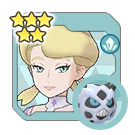
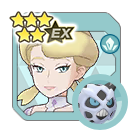
Add v2.25.0

Changed region(s): [[0.2963, 0.1185, 0.5926, 0.3556], [0.3556, 0.0889, 0.3852, 0.1185], [0.2963, 0.0889, 0.3259, 0.1185]]

diff --git a/js/syncpairs.js b/js/syncpairs.js
@@ -1795,6 +1795,34 @@ export const SYNCPAIRS = [
 		]
 	},
 	{
+		"dexNumber": "043",
+		"trainerName": "Iris",
+		"trainerAlt": "Fall 2022",
+		"pokemonNumber": "0804",
+		"pokemonName": "Naganadel",
+		"pokemonGender": "",
+		"pokemonForm": [],
+		"pokemonType": "Poison",
+		"pokemonWeak": "Psychic",
+		"syncPairRole": "Tech",
+		"syncPairRarity": "★★★★★☆",
+		"releaseDate": "2022/10/17",
+		"syncPairRegion": "5Unova",
+		"images": [
+			"Sync Pairs/0Y_SEASONALS/0Z_0C_FALL_2022_Iris.png",
+			"Sync Pairs/0Y_SEASONALS/0Z_0C_FALL_2022_Iris_EX.png"
+		],
+		"tags": [
+			"isWoman",
+			"Limited Sync Pair Scout",
+			"Multiple Units",
+			"Seasonal",
+			"Wish Zone",
+			"Gym Leader",
+			"Champion"
+		]
+	},
+	{
 		"dexNumber": "044",
 		"trainerName": "Roxie",
 		"trainerAlt": "",
@@ -2926,7 +2954,8 @@ export const SYNCPAIRS = [
 		"releaseDate": "2019/11/14",
 		"syncPairRegion": "3Hoenn",
 		"images": [
-			"Sync Pairs/0C_HOENN/0C_HOENN_0C-03_Glacia.png"
+			"Sync Pairs/0C_HOENN/0C_HOENN_0C-03_Glacia.png",
+			"Sync Pairs/0C_HOENN/0C_HOENN_0C-03_Glacia_EX.png"
 		],
 		"tags": [
 			"Sync Pair Scout",
@@ -3985,6 +4014,36 @@ export const SYNCPAIRS = [
 			"Sync Pair Scout",
 			"isMan",
 			"Rival"
+		]
+	},
+	{
+		"dexNumber": "092",
+		"trainerName": "Wally",
+		"trainerAlt": "Sygna Suit",
+		"pokemonNumber": "0282",
+		"pokemonName": "Gardevoir",
+		"pokemonGender": "♂",
+		"pokemonForm": ["Mega Evolution"],
+		"pokemonType": "Fairy",
+		"pokemonWeak": "Ghost",
+		"syncPairRole": "Tech",
+		"syncPairRarity": "★★★★★☆",
+		"releaseDate": "2022/09/28",
+		"syncPairRegion": "3Hoenn",
+		"images": [
+			"Sync Pairs/0C_HOENN/0C_HOENN_0A-03_ssWally.png",
+			"Sync Pairs/0C_HOENN/0C_HOENN_0A-03_ssWally_EX.png"
+		],
+		"tags": [
+			"Buddy Move",
+			"isMan",
+			"Limited Sync Pair Scout",
+			"Mega Evolution",
+			"Multiple Units",
+			"Poké Fair",
+			"Wish Zone",
+			"Rival",
+			"Shiny"
 		]
 	},
 	{
@@ -5637,6 +5696,33 @@ export const SYNCPAIRS = [
 		]
 	},
 	{
+		"dexNumber": "123",
+		"trainerName": "Raihan",
+		"trainerAlt": "",
+		"pokemonNumber": "0526",
+		"pokemonName": "Gigalith",
+		"pokemonGender": "♂",
+		"pokemonForm": [],
+		"pokemonType": "Rock",
+		"pokemonWeak": "Water",
+		"syncPairRole": "Support",
+		"syncPairRarity": "★★★★",
+		"releaseDate": "2022/10/01",
+		"syncPairRegion": "8Galar",
+		"images": [
+			"Sync Pairs/0H_GALAR/0H_GALAR_0B-08_TL_Raihan.png",
+			"Sync Pairs/5Star/0H_GALAR_0B-08_TL_Raihan_5Star.png"
+		],
+		"tags": [
+			"isMan",
+			"Limited Sync Pair Scout",
+			"Multiple Units",
+			"Trainer Lodge",
+			"Weather",
+			"Gym Leader"
+		]
+	},
+	{
 		"dexNumber": "124",
 		"trainerName": "Ghetsis",
 		"trainerAlt": "",
@@ -6207,6 +6293,32 @@ export const SYNCPAIRS = [
 		]
 	},
 	{
+		"dexNumber": "142",
+		"trainerName": "Allister",
+		"trainerAlt": "Fall 2022",
+		"pokemonNumber": "0711",
+		"pokemonName": "Gourgeist",
+		"pokemonGender": "♂",
+		"pokemonForm": ["Super Size"],
+		"pokemonType": "Ghost",
+		"pokemonWeak": "Fire",
+		"syncPairRole": "Support",
+		"syncPairRarity": "★★★★★☆",
+		"releaseDate": "2022/10/19",
+		"syncPairRegion": "8Galar",
+		"images": [
+			"Sync Pairs/0Y_SEASONALS/0Z_0C_FALL_2022_Allister.png",
+			"Sync Pairs/0Y_SEASONALS/0Z_0C_FALL_2022_Allister_EX.png"
+		],
+		"tags": [
+			"isMan",
+			"Limited Sync Pair Scout",
+			"Multiple Units",
+			"Seasonal",
+			"Gym Leader"
+		]
+	},
+	{
 		"dexNumber": "143",
 		"trainerName": "Darach",
 		"trainerAlt": "",
@@ -6525,6 +6637,107 @@ export const SYNCPAIRS = [
 		"tags": [
 			"Limited Event",
 			"isWoman"
+		]
+	},
+	{
+		"dexNumber": "155",
+		"trainerName": "Gordie",
+		"trainerAlt": "",
+		"pokemonNumber": "0839",
+		"pokemonName": "Coalossal",
+		"pokemonGender": "♂",
+		"pokemonForm": ["Dynamax", "Gigantamax"],
+		"pokemonType": "Rock",
+		"pokemonWeak": "Ground",
+		"syncPairRole": "Tech",
+		"syncPairRarity": "★★★★★☆",
+		"releaseDate": "2022/10/03",
+		"syncPairRegion": "8Galar",
+		"images": [
+			"Sync Pairs/0H_GALAR/0H_GALAR_0B-06_Gordie.png",
+			"Sync Pairs/0H_GALAR/0H_GALAR_0B-06_Gordie_EX.png"
+		],
+		"tags": [
+			"Dynamax",
+			"isMan",
+			"Sync Pair Scout",
+			"Gym Leader"
+		]
+	},
+	{
+		"dexNumber": "156",
+		"trainerName": "Melony",
+		"trainerAlt": "",
+		"pokemonNumber": "0131",
+		"pokemonName": "Lapras",
+		"pokemonGender": "♀",
+		"pokemonForm": ["Dynamax", "Gigantamax"],
+		"pokemonType": "Ice",
+		"pokemonWeak": "Rock",
+		"syncPairRole": "Support",
+		"syncPairRarity": "★★★★★☆",
+		"releaseDate": "2022/10/05",
+		"syncPairRegion": "8Galar",
+		"images": [
+			"Sync Pairs/0H_GALAR/0H_GALAR_0B-06b_Melony.png",
+			"Sync Pairs/0H_GALAR/0H_GALAR_0B-06b_Melony_EX.png"
+		],
+		"tags": [
+			"Dynamax",
+			"isWoman",
+			"Sync Pair Scout",
+			"Gym Leader"
+		]
+	},
+	{
+		"dexNumber": "157",
+		"trainerName": "Victor",
+		"trainerAlt": "",
+		"pokemonNumber": "0812",
+		"pokemonName": "Rillaboom",
+		"pokemonGender": "♂",
+		"pokemonForm": ["Dynamax", "Gigantamax"],
+		"pokemonType": "Grass",
+		"pokemonWeak": "Fire",
+		"syncPairRole": "Physical Strike",
+		"syncPairRarity": "★★★★★☆",
+		"releaseDate": "2022/10/07",
+		"syncPairRegion": "8Galar",
+		"images": [
+			"Sync Pairs/0H_GALAR/0H_GALAR_0A-01_Victor.png",
+			"Sync Pairs/0H_GALAR/0H_GALAR_0A-01_Victor_EX.png"
+		],
+		"tags": [
+			"Dynamax",
+			"isMan",
+			"Limited Sync Pair Scout",
+			"Poké Fair",
+			"Main Character"
+		]
+	},
+	{
+		"dexNumber": "158",
+		"trainerName": "Helena",
+		"trainerAlt": "Hex Maniac",
+		"pokemonNumber": "0093",
+		"pokemonName": "Haunter",
+		"pokemonGender": "♀",
+		"pokemonForm": [],
+		"pokemonType": "Ghost",
+		"pokemonWeak": "Dark",
+		"syncPairRole": "Tech",
+		"syncPairRarity": "★★★",
+		"releaseDate": "2022/10/17",
+		"syncPairRegion": "6Kalos",
+		"images": [
+			"Sync Pairs/0F_KALOS/0F_KALOS_0X-01_Helena.png",
+			"Sync Pairs/4Star/0F_KALOS_0X-01_Helena_4Star.png",
+			"Sync Pairs/5Star/0F_KALOS_0X-01_Helena_5Star.png"
+		],
+		"tags": [
+			"Event",
+			"isWoman",
+			"Limited Sync Pair Scout"
 		]
 	}
 	/*,

diff --git a/index.html b/index.html
@@ -15,12 +15,12 @@
 <body>
 	<div id="main">
 		<div id="leftSide">
-			<p id="version">v2.24.0</p>
+			<p id="version">v2.25.0</p>
 
 			<div id="btnEggs"></div>
 
 			<ul id="news">
-				<li><span>2022/09/26</span><span>→&nbsp;&nbsp;&nbsp;Add new filters<br>→&nbsp;&nbsp;&nbsp;Add ★ upgrade for eggmons<br>→&nbsp;&nbsp;&nbsp;Add/rework options buttons</span></li>
+				<li><span>2022/09/26</span><span>→&nbsp;&nbsp;&nbsp;Add new filters<br>→&nbsp;&nbsp;&nbsp;Add ★ upgrade for eggmons<br>→&nbsp;&nbsp;&nbsp;Add/rework options buttons<br>→&nbsp;&nbsp;&nbsp;Add v2.25.0</span></li>
 				<li><span>2022/09/06</span><span>Add the possibility to up the ★ of sync pair (currently not the case for eggmons)</span></li>
 				<li><span>2022/09/05</span><span>Hello, Pokémon World !</span></li>
 			</ul>
